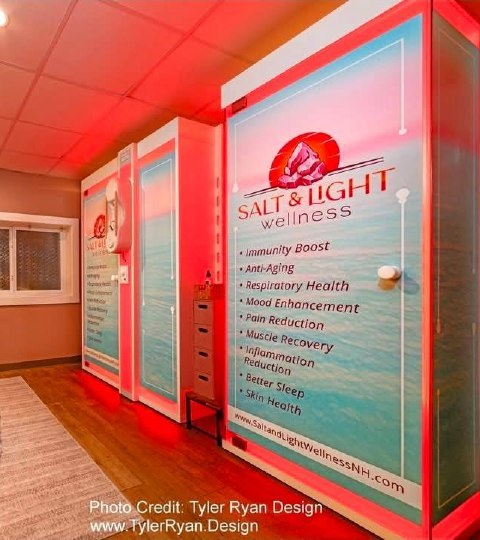
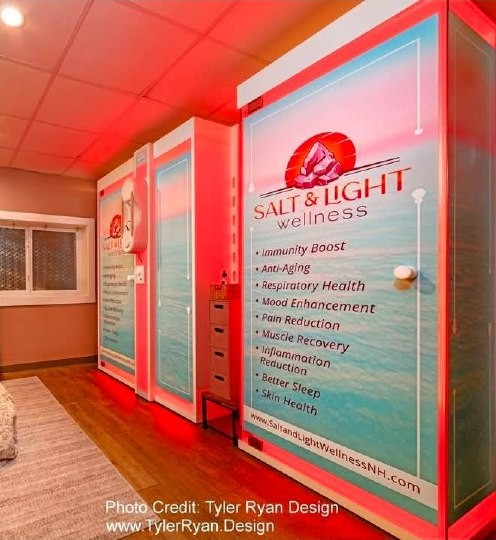
Pro room photo as hero, updated service card crops from pro shot

diff --git a/index.html b/index.html
@@ -16,7 +16,7 @@
     .nav-links a{color:#e8ddd5;text-decoration:none;font-size:.85rem;letter-spacing:1px;text-transform:uppercase;transition:color .2s}
     .nav-links a:hover{color:var(--dark)}
     .nav-book{background:var(--pink);color:var(--dark)!important;padding:9px 22px;border-radius:30px;font-weight:600!important}
-    .hero{min-height:100vh;background:linear-gradient(rgba(0,0,0,0.45),rgba(44,100,88,0.55)),url(room.jpg) center/cover no-repeat;display:flex;align-items:center;justify-content:center;text-align:center;padding:120px 20px 60px;position:relative;overflow:hidden}
+    .hero{min-height:100vh;background:linear-gradient(rgba(0,0,0,0.45),rgba(44,100,88,0.55)),url(room-pro.jpg) center/cover no-repeat;display:flex;align-items:center;justify-content:center;text-align:center;padding:120px 20px 60px;position:relative;overflow:hidden}
     .hero::before{content:'';position:absolute;inset:0;background:radial-gradient(ellipse at 60% 40%,rgba(201,169,110,.15) 0%,transparent 60%)}
     .hero-content{position:relative;z-index:1;max-width:680px}
     .hero-tag{display:inline-block;background:rgba(201,169,110,.15);border:1px solid var(--gold);color:var(--dark);padding:6px 20px;border-radius:20px;font-size:.78rem;letter-spacing:2px;text-transform:uppercase;margin-bottom:24px}

diff --git a/services.html b/services.html
@@ -77,7 +77,7 @@ footer a{color:var(--dark);text-decoration:none}
 <div class="wrap">
 
   <div class="service-block">
-    <div class="svc-visual halored-vis">🌅</div>
+    <div class="svc-visual halored-vis" style="background:none;padding:0"><img src="halored-booth.jpg" style="width:100%;height:100%;object-fit:cover;border-radius:20px" alt="HaloRed Booths"</div>
     <div class="svc-content">
       <div class="label">Service 01 — HaloRed — Salt + Red Light</div>
       <h2>HaloRed</h2>
